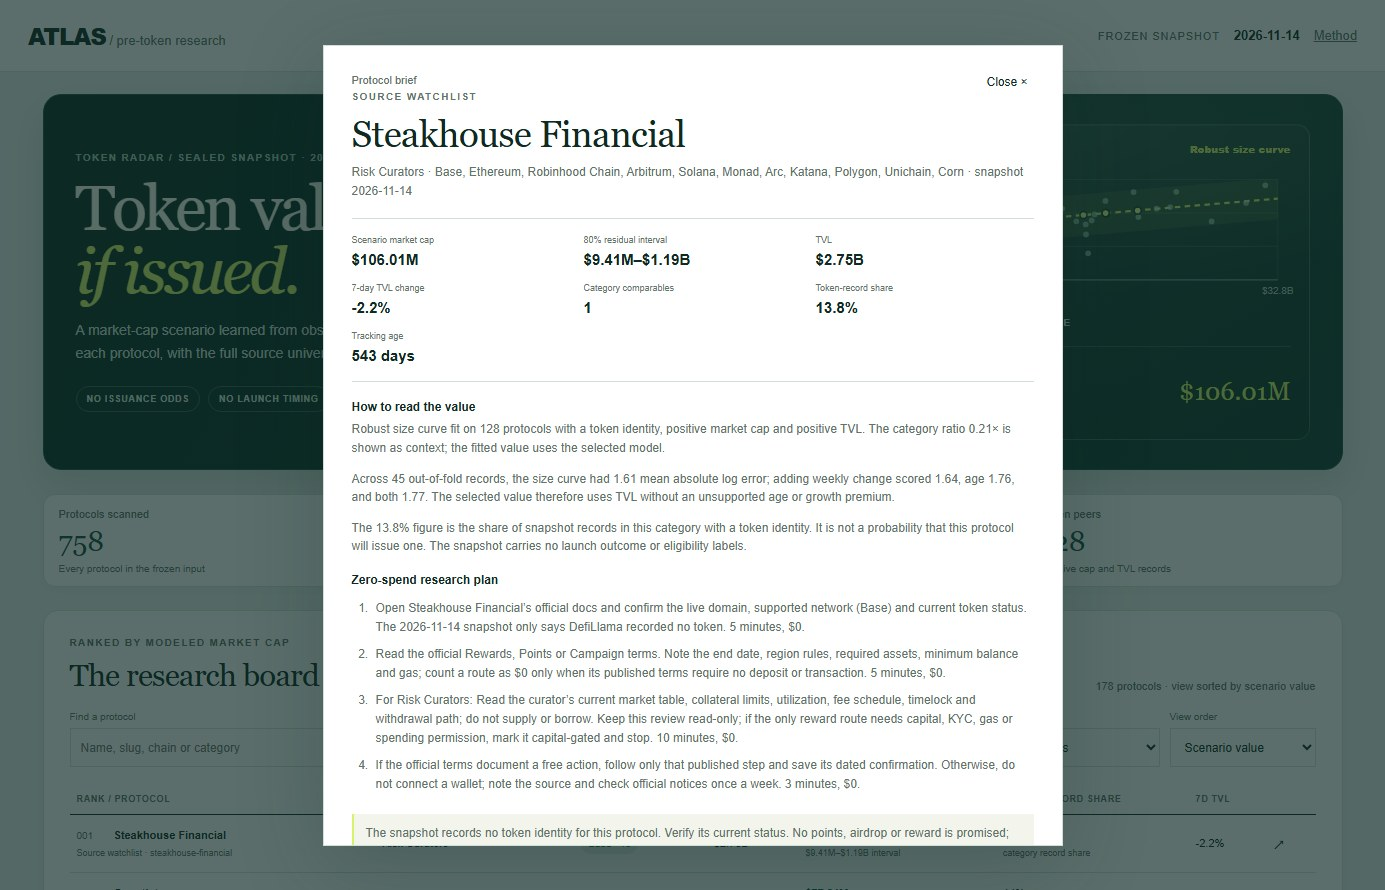
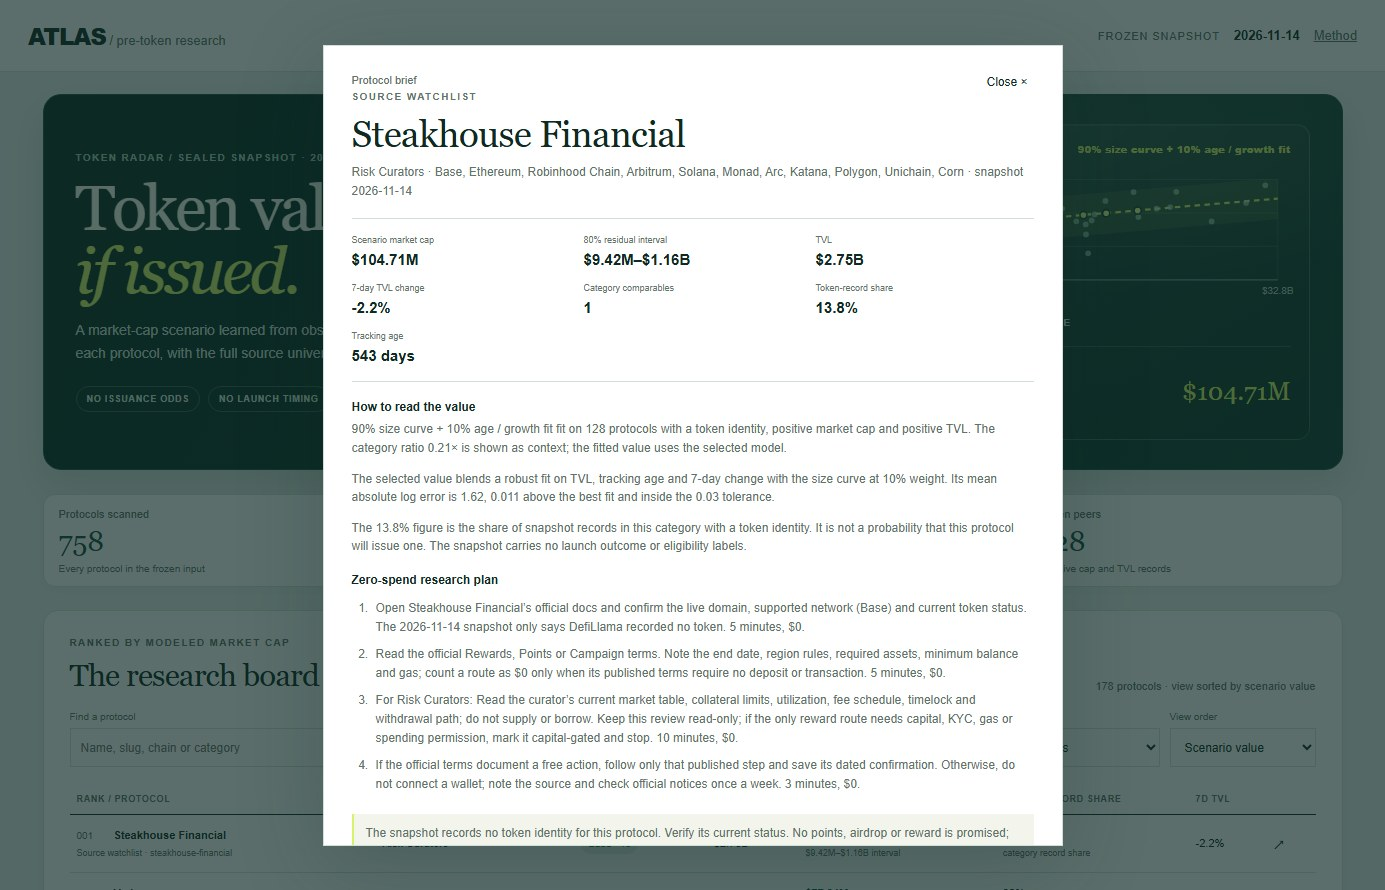
Use validated age and growth signals conservatively

diff --git a/dashboard/app.js b/dashboard/app.js
@@ -3,7 +3,7 @@ const $=id=>document.getElementById(id);
 const escapeHtml=value=>String(value??'').replace(/[&<>"']/g,char=>({'&':'&amp;','<':'&lt;','>':'&gt;','"':'&quot;',"'":'&#39;'}[char]));
 const money=value=>new Intl.NumberFormat('en-US',{style:'currency',currency:'USD',notation:'compact',maximumFractionDigits:2}).format(Number(value)||0);
 const percent=value=>value==null?'—':(value>=0?'+':'')+Number(value).toFixed(1)+'%';
-const labelMap={size_curve:'Robust size curve',size_age:'TVL + age',size_growth:'TVL + weekly change',size_age_growth:'TVL + age + weekly change',size_category:'TVL + shrunken category residual',ratio:'Fixed cap / TVL multiple',flat:'Flat market-cap baseline'};
+const labelMap={size_curve:'Robust size curve',size_age:'TVL + age',size_growth:'TVL + weekly change',size_age_growth:'TVL + age + weekly change',size_blend_growth_25:'75% size curve + 25% growth fit',size_blend_growth_50:'50% size curve + 50% growth fit',size_blend_age_growth_10:'90% size curve + 10% age / growth fit',size_blend_age_growth_15:'85% size curve + 15% age / growth fit',size_blend_age_growth_20:'80% size curve + 20% age / growth fit',size_blend_age_growth_25:'75% size curve + 25% age / growth fit',size_blend_age_growth_50:'50% size curve + 50% age / growth fit',size_category:'TVL + shrunken category residual',ratio:'Fixed cap / TVL multiple',flat:'Flat market-cap baseline'};
 let limit=10;
 let auditLimit=20;
 
@@ -30,10 +30,10 @@ for(const category of [...new Set(data.rows.map(row=>row.category).filter(Boolea
  const option=document.createElement('option');option.value=category;option.textContent=category;$('category').append(option)
 }
 const modelName=labelMap[stats.selected_model]||stats.selected_model;
- $('model-summary').textContent=modelName+' selected from '+stats.dated_comparable_count+' dated records; '+stats.comparable_count+' positive cap / TVL peers train the final fit. Age and 7-day change are evaluated as terms and retained only when held-out error supports them.';
+$('model-summary').textContent=modelName+' selected from '+stats.dated_comparable_count+' dated records; '+stats.comparable_count+' positive cap / TVL peers train the final fit. A conservative age / growth blend is retained only when its held-out error stays within 0.03 of the best fit.';
 const parameters=stats.model_parameters||{};
 const slope=parameters.slope;
-$('formula').textContent=slope==null?'Robust scenario fit · '+modelName:'ln(market cap) = intercept + '+Number(slope).toFixed(3)+' × ln(TVL)';
+$('formula').textContent=Array.isArray(parameters.fields)?'Blended robust fit · '+modelName+' · '+Math.round(Number(parameters.blend_weight)*100)+'% age / growth adjustment':slope==null?'Robust scenario fit · '+modelName:'ln(market cap) = intercept + '+Number(slope).toFixed(3)+' × ln(TVL)';
 $('hero-model').textContent=modelName;
 const leadScenario=data.rows[0];
 if(leadScenario){
@@ -73,7 +73,7 @@ function renderHeroChart(){
 renderHeroChart();
 $('validation-rows').innerHTML=stats.validation.map(row=>{
  const selected=row.name===stats.selected_model;
- return '<tr class="'+(selected?'selected-model':'')+'"><td>'+escapeHtml(labelMap[row.name]||row.name)+(selected?' <span class="selected-tag">selected</span>':'')+'</td><td>'+Number(row.n).toLocaleString('en-US')+'</td><td>'+escapeHtml(row.median_factor_error)+'×</td><td>'+escapeHtml(row.within_2x_percent)+'%</td></tr>';
+ return '<tr class="'+(selected?'selected-model':'')+'"><td>'+escapeHtml(labelMap[row.name]||row.name)+(selected?' <span class="selected-tag">selected</span>':'')+'</td><td>'+Number(row.n).toLocaleString('en-US')+'</td><td>'+Number(row.mae_log).toFixed(2)+'</td><td>'+escapeHtml(row.median_factor_error)+'×</td><td>'+escapeHtml(row.within_2x_percent)+'%</td></tr>';
 }).join('');
 
 function visibleRows(){
@@ -141,9 +141,12 @@ function detail(slug){
  const growthError=byName.size_growth?.mae_log;
  const ageError=byName.size_age?.mae_log;
  const combinedError=byName.size_age_growth?.mae_log;
- const validationNote=stats.selected_model==='size_curve'&&[curveError,growthError,ageError,combinedError].every(Number.isFinite)
-  ?'Across '+stats.chosen_validation.n+' out-of-fold records, the size curve had '+Number(curveError).toFixed(2)+' mean absolute log error; adding weekly change scored '+Number(growthError).toFixed(2)+', age '+Number(ageError).toFixed(2)+', and both '+Number(combinedError).toFixed(2)+'. The selected value therefore uses TVL without an unsupported age or growth premium.'
-  :'The validation table shows how age and weekly change affected held-out fit; the selected model uses only the terms its out-of-fold results support.';
+ const gap=stats.chosen_validation.mae_log-Math.min(...stats.validation.filter(item=>item.name!=='flat').map(item=>item.mae_log));
+ const validationNote=stats.selected_model.startsWith('size_blend_age_growth_')
+  ?'The selected value blends a robust fit on TVL, tracking age and 7-day change with the size curve at '+Math.round(Number(stats.model_parameters.blend_weight)*100)+'% weight. Its mean absolute log error is '+Number(stats.chosen_validation.mae_log).toFixed(2)+', '+gap.toFixed(3)+' above the best fit and inside the 0.03 tolerance.'
+  :stats.selected_model==='size_curve'&&[curveError,growthError,ageError,combinedError].every(Number.isFinite)
+   ?'Across '+stats.chosen_validation.n+' out-of-fold records, the size curve had '+Number(curveError).toFixed(2)+' mean absolute log error; adding weekly change scored '+Number(growthError).toFixed(2)+', age '+Number(ageError).toFixed(2)+', and both '+Number(combinedError).toFixed(2)+'. The selected value therefore uses TVL without an unsupported age or growth premium.'
+   :'The validation table shows how age and weekly change affected held-out fit; the selected model uses only the terms its out-of-fold results support.';
  $('detail-content').innerHTML='<h2 class="detail-title">'+escapeHtml(row.name)+'</h2>'+
   '<p class="detail-copy">'+escapeHtml(row.category||'Unclassified')+' · '+escapeHtml((row.chains||[]).join(', ')||'Network not recorded')+' · snapshot '+escapeHtml(data.as_of)+'</p>'+
   '<div class="detail-metrics"><div><span>Scenario market cap</span><strong>'+money(row.implied_value_usd)+'</strong></div>'+

diff --git a/main.ts b/main.ts
@@ -117,6 +117,27 @@ function fitModel(name:string,rows:any[]):any {
  if(name==='size_age')return fitHuber(rows,['tvl','age']);
  if(name==='size_growth')return fitHuber(rows,['tvl','growth']);
  if(name==='size_age_growth')return fitHuber(rows,['tvl','age','growth']);
+ const blends:any={
+  size_blend_growth_25:{fields:['tvl','growth'],weight:0.25},
+  size_blend_growth_50:{fields:['tvl','growth'],weight:0.50},
+  size_blend_age_growth_10:{fields:['tvl','age','growth'],weight:0.10},
+  size_blend_age_growth_15:{fields:['tvl','age','growth'],weight:0.15},
+  size_blend_age_growth_20:{fields:['tvl','age','growth'],weight:0.20},
+  size_blend_age_growth_25:{fields:['tvl','age','growth'],weight:0.25},
+  size_blend_age_growth_50:{fields:['tvl','age','growth'],weight:0.50}
+ };
+ if(blends[name]){
+  const {fields,weight}=blends[name];
+  const curve=fitSizeCurve(rows),featureModel=fitHuber(rows,fields);
+  const beta=featureModel.parameters.coefficients;
+  const slope=(1-weight)*curve.slope+weight*beta[1];
+  const intercept=(1-weight)*curve.intercept+weight*(beta[0]-beta[1]*Math.log(50000000));
+  return {
+   predict:(p:any)=>(1-weight)*curve.predict(p)+weight*featureModel.predict(p),
+   slope,intercept,
+   parameters:{fields,coefficients:beta,blend_weight:weight,slope,intercept}
+  };
+ }
  const curve=fitSizeCurve(rows);
  const categories=new Map<string,{count:number,bias:number}>();
  const names=new Set(rows.map(p=>p.category||''));
@@ -148,7 +169,7 @@ const comparable=snapshot.protocols.filter((p:any)=>
 );
 const dated=[...comparable].filter((p:any)=>p.listed_at)
  .sort((a:any,b:any)=>a.listed_at.localeCompare(b.listed_at)||a.slug.localeCompare(b.slug));
-const variants=['flat','ratio','size_curve','size_age','size_growth','size_age_growth','size_category'];
+const variants=['flat','ratio','size_curve','size_age','size_growth','size_age_growth','size_blend_growth_25','size_blend_growth_50','size_blend_age_growth_10','size_blend_age_growth_15','size_blend_age_growth_20','size_blend_age_growth_25','size_blend_age_growth_50','size_category'];
 const errors=new Map<string,number[]>();
 for(const name of variants)errors.set(name,[]);
 const foldSize=Math.max(5,Math.floor(dated.length*0.1));
@@ -165,10 +186,11 @@ for(let fold=0;fold<5;fold++){
 const validation=variants.map(name=>({name,...modelMetrics(errors.get(name)!)}));
 const selectable=validation.filter(v=>!['flat'].includes(v.name));
 const best=selectable.reduce((a,b)=>b.mae_log<a.mae_log?b:a,selectable[0]);
-const complexity:any={ratio:0,size_curve:1,size_category:2,size_age:2,size_growth:2,size_age_growth:3};
-const chosen=selectable
- .filter(v=>v.mae_log<=best.mae_log+0.03)
- .sort((a,b)=>(complexity[a.name]-complexity[b.name])||a.mae_log-b.mae_log)[0]?.name||'size_curve';
+const complexity:any={ratio:0,size_curve:1,size_blend_growth_25:1.5,size_growth:2,size_blend_growth_50:2,size_category:2,size_age:2,size_blend_age_growth_25:2.5,size_age_growth:3,size_blend_age_growth_50:3};
+const withinTolerance=selectable.filter(v=>v.mae_log<=best.mae_log+0.03);
+const ageGrowthBlend=withinTolerance.filter(v=>v.name.startsWith('size_blend_age_growth_')).sort((a,b)=>a.mae_log-b.mae_log)[0];
+const chosen=ageGrowthBlend?.name||withinTolerance
+ .sort((a,b)=>(complexity[a.name]??4)-(complexity[b.name]??4)||a.mae_log-b.mae_log)[0]?.name||'size_curve';
 const model=fitModel(chosen,comparable);
 const oof=errors.get(chosen)||[];
 const intervalFactor=Math.exp(quantile(oof.map(v=>Math.abs(v)),0.8));

diff --git a/dashboard/index.html b/dashboard/index.html
@@ -79,7 +79,7 @@
     <div>
       <p class="formula" id="formula">Loading model</p>
       <p>Observed-token records with positive market cap and TVL train a robust log–log size curve. Expanding-window validation uses only older tracking cohorts to fit each fold and the next cohort to score it. The selection table compares the size curve with a fixed multiple, age and weekly-change terms, and a shrunken category adjustment.</p>
-      <div class="validation-wrap"><table><thead><tr><th>Candidate model</th><th>Out-of-fold n</th><th>Median factor error</th><th>Within 2×</th></tr></thead><tbody id="validation-rows"></tbody></table></div>
+      <div class="validation-wrap"><table><thead><tr><th>Candidate model</th><th>Out-of-fold n</th><th>Mean |log error|</th><th>Median factor error</th><th>Within 2×</th></tr></thead><tbody id="validation-rows"></tbody></table></div>
       <p>Intervals use the 80th percentile absolute log residual across those folds. The snapshot has no issuance dates, launch outcomes or reward eligibility labels, so Atlas estimates no odds or timing. Token-record share is descriptive only.</p>
       <p>Protocol records and market caps are historical as of <strong id="method-date"></strong>. Verify domains, token status and risks yourself. Every research step is budgeted at $0; skip any action requiring a transfer, signature or network fee.</p>
     </div>

diff --git a/README.md b/README.md
@@ -29,4 +29,4 @@ Open out/dashboard/index.html locally. The generated dashboard has no network de
 
 ## Validation snapshot
 
-The expanding-window model selection covered 45 out-of-fold observations from 95 records with a tracking date. On those folds, the selected curve had a median absolute factor error of 2.8× and landed within 2× on 28.9% of observations. Those metrics are shown in the dashboard and are not a guarantee for a future token.
+The expanding-window model selection covered 45 out-of-fold observations from 95 records with a tracking date. It compares a robust size curve, age and weekly-change models, and fixed-weight blends. A conservative age/growth blend is kept only when its mean absolute log error stays within 0.03 of the best fit. The selected model's median factor error and share within 2× are shown in the dashboard; neither is a guarantee for a future token.
